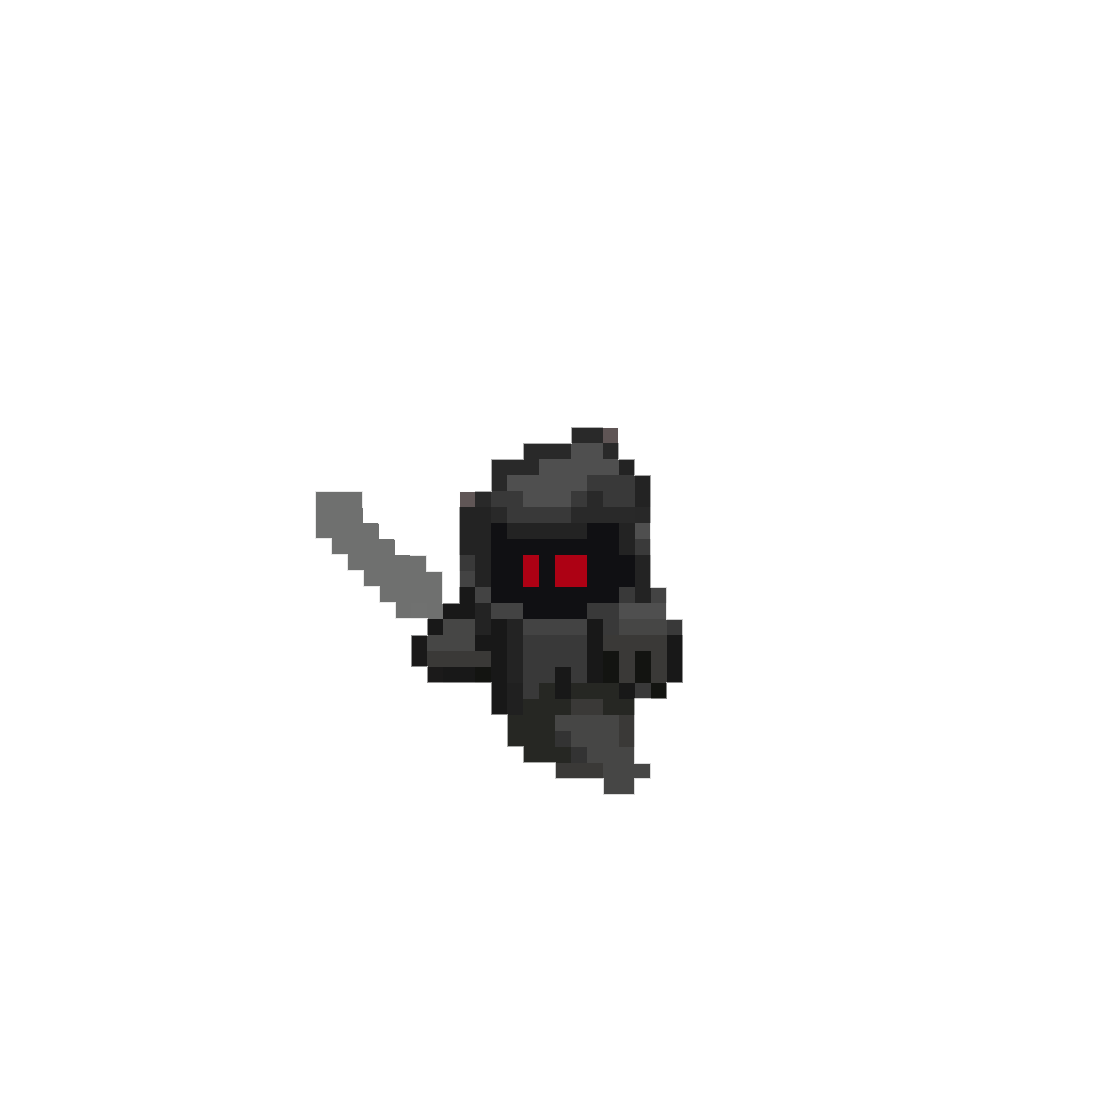
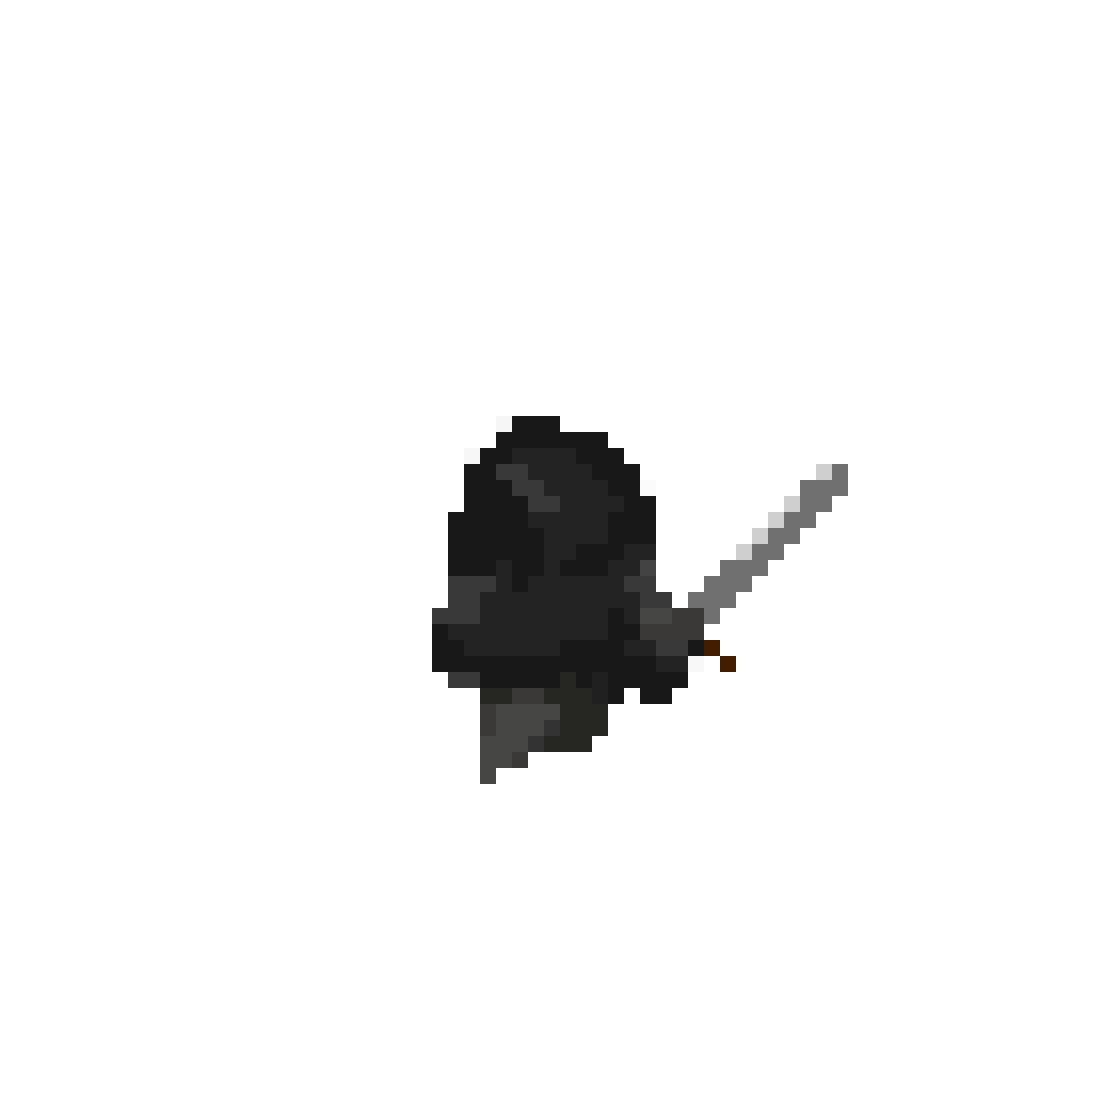
win screens, update screens, update fighter front/back, boost hunter damage, shortcuts for connecting screen

Changed region(s): [[0.2749, 0.3666, 0.7637, 0.7332]]

diff --git a/client/Window.cpp b/client/Window.cpp
@@ -141,7 +141,7 @@ bool Window::initializeObjects(GLFWwindow* window)
 	#ifndef SERVER_ENABLED
 	chars[0] = new Character("shaders/character/billboard.obj", &projection, &view, &eyePos, texShader,
 		glm::vec3(SPAWN_POSITIONS[0][0], 1.5f, SPAWN_POSITIONS[0][1]), glm::vec3(0.f, 1.f, 0.f), glm::radians(0.f), 5.f, glm::vec3(1.f, .5f, .5f),
-		"shaders/character/MAGE");	
+		"shaders/character/MONSTER");	
 	clientChar = chars[0];
 	Window::gameStarted = true;
 	guiManager->healthBar->flashHealthBar();
@@ -198,7 +198,6 @@ void Window::initMap(GLFWwindow * window) {
 		"shaders/environment/dry_grass_red_3x3.png", "shaders/environment/cracked_tile_texture_3x3.png", 3.0f);
 
 	// Init tile ground
-	
     ifstream map_ground_file("../assets/layout/map_ground.csv");
     string t_line;
     string t_id;
@@ -228,7 +227,7 @@ void Window::initMap(GLFWwindow * window) {
 					const int randomTileIndex = rand() % num_tiles;
 					const int randomRotation = rand() % 360;
 					EnvElement* tileTest = new EnvElement(tileStringPaths[randomTileIndex], &projection, &view, phongSaturatedTexShader, &eyePos,
-						glm::vec3(j * tileSize, -0.5f, i * tileSize), glm::vec3(0.f, 1.f, 0.f), glm::radians((float)randomRotation), 1.f , &materialManager,  glm::vec3(0.f, 0.f, 0.f)); 
+						glm::vec3(j * tileSize, 0.f, i * tileSize), glm::vec3(0.f, 1.f, 0.f), glm::radians((float)randomRotation), 1.f , &materialManager,  glm::vec3(0.f, 0.f, 0.f)); 
 					table.insert(tileTest);
 					
 					break;
@@ -421,6 +420,10 @@ void Window::initMap(GLFWwindow * window) {
 		}
 		
 	} 
+
+	// backdrop image
+	envs.push_back(new EnvElement("shaders/character/backdrop_billboard.obj", &projection, &view, texShader,
+					&eyePos, glm::vec3(-150.f, -305.f, -600.f), glm::vec3(1.f, 0.f, 0.f), glm::radians(-70.f), 600.f, glm::vec3(0.f, 1.f, 0.f), "shaders/fullscreen_elements/BLANK.png"));
 }
 
 void Window::initCharacters(GLFWwindow * window) {
@@ -520,8 +523,8 @@ GLFWwindow* Window::createWindow(int width, int height, AudioProgram* audioProgr
 	}
 	
 	// Old windowed mode
-	// glfwWindowHint(GLFW_SAMPLES, 4);
-	// GLFWwindow* window = glfwCreateWindow(width, height, windowTitle, NULL, NULL);
+	//glfwWindowHint(GLFW_SAMPLES, 4);
+	//GLFWwindow* window = glfwCreateWindow(width, height, windowTitle, NULL, NULL);
 	
 	// Fullscreen mode
 	GLFWmonitor* primaryMonitor = glfwGetPrimaryMonitor();
@@ -1296,6 +1299,11 @@ void Window::handleUpdate(GameUpdate update) {
 			guiManager->setConnectingScreenVisible(false);
 			guiManager->setSelectScreenVisible(false);
 			guiManager->setGameEndVisible(true);
+			if(update.endStatus == 1) {
+				guiManager->endScreen->setWinner(HUNTER_WINNER_COND);
+			} else if (update.endStatus == 2) {
+				guiManager->endScreen->setWinner(MONSTER_WINNER_COND);
+			} 
 			break;
         default:
             printf("Not Handled Update Type: %d\n", update.updateType);

diff --git a/client/gui/EndScreen.cpp b/client/gui/EndScreen.cpp
@@ -4,9 +4,12 @@ EndScreen::EndScreen(NVGcontext* vg) {
     this->vg = vg;
     this->isVisible = false;
     this->endTime = steady_clock::now();
+    this->winner = -1;
 
-    this->image = nvgCreateImage(vg, "shaders/fullscreen_elements/game_over.png", 0);
-    nvgImageSize(vg, image, &imgWidth, &imgHeight);
+    this->image[hunter_index] = nvgCreateImage(vg, "shaders/fullscreen_elements/win_hunters.png", 0);
+    nvgImageSize(vg, image[hunter_index], &imgWidth[hunter_index], &imgHeight[hunter_index]);
+    this->image[monster_index] = nvgCreateImage(vg, "shaders/fullscreen_elements/win_monsters.png", 0);
+    nvgImageSize(vg, image[monster_index], &imgWidth[monster_index], &imgHeight[monster_index]);
 }
 
 
@@ -19,19 +22,26 @@ void EndScreen::draw(float windowWidth, float windowHeight) {
 
 	nvgSave(vg); 
 
-	// EndScreen Image
-    // NVGpaint imgPaint =  nvgImagePattern(vg, (windowWidth - imgWidth) / 2, (windowHeight - imgHeight) / 2, imgWidth, imgHeight, 0.0f/180.0f*NVG_PI, this->image, 1.f);
-    // nvgBeginPath(vg);
-    // nvgRoundedRect(vg, (windowWidth - imgWidth) / 2, (windowHeight - imgHeight) / 2, imgWidth, imgWidth, 5);
-    // nvgFillPaint(vg, imgPaint);
-    // nvgFill(vg);
+    // End Screen
     auto duration = duration_cast<milliseconds>(steady_clock::now() - endTime);
     float alpha = std::fmin( ((float)duration.count()) / END_GAME_DELAY_INPUT, 1.0f);
-    NVGpaint imgPaint =  nvgImagePattern(vg, 0, 0, windowWidth, windowHeight, 0.0f/180.0f*NVG_PI, this->image, alpha);
-    nvgBeginPath(vg);
-    nvgRoundedRect(vg,  0, 0, windowWidth, windowHeight, 5);
-    nvgFillPaint(vg, imgPaint);
-    nvgFill(vg);
+
+    // Hunter win condition
+    if (winner == HUNTER_WINNER_COND) {
+        NVGpaint imgPaint =  nvgImagePattern(vg, 0, 0, windowWidth, windowHeight, 0.0f/180.0f*NVG_PI, this->image[hunter_index], alpha);
+        nvgBeginPath(vg);
+        nvgRoundedRect(vg,  0, 0, windowWidth, windowHeight, 5);
+        nvgFillPaint(vg, imgPaint);
+        nvgFill(vg);
+
+    // Monster win condition
+    } else if (winner == MONSTER_WINNER_COND) {
+        NVGpaint imgPaint =  nvgImagePattern(vg, 0, 0, windowWidth, windowHeight, 0.0f/180.0f*NVG_PI, this->image[monster_index], alpha);
+        nvgBeginPath(vg);
+        nvgRoundedRect(vg,  0, 0, windowWidth, windowHeight, 5);
+        nvgFillPaint(vg, imgPaint);
+        nvgFill(vg);
+    }
 
 	nvgRestore(vg); 
 }
@@ -42,4 +52,8 @@ void EndScreen::setVisible(bool visible) {
 
 void EndScreen::setEndTime(steady_clock::time_point endTime) {
     this->endTime = endTime;
+}
+
+void EndScreen::setWinner(int winner) {
+    this->winner = winner;
 }

diff --git a/client/TitleWindow.cpp b/client/TitleWindow.cpp
@@ -54,21 +54,21 @@ GLFWwindow* TitleWindow::createWindow(int width, int height, AudioProgram* audio
 	}
 	
 	// Old windowed mode
-	glfwWindowHint(GLFW_SAMPLES, 4);
-	GLFWwindow* window = glfwCreateWindow(width, height, windowTitle, NULL, NULL);
+	// glfwWindowHint(GLFW_SAMPLES, 4);
+	// GLFWwindow* window = glfwCreateWindow(width, height, windowTitle, NULL, NULL);
 	
 	// Fullscreen mode
-	// GLFWmonitor* primaryMonitor = glfwGetPrimaryMonitor();
-	// const GLFWvidmode* mode = glfwGetVideoMode(primaryMonitor);
+	GLFWmonitor* primaryMonitor = glfwGetPrimaryMonitor();
+	const GLFWvidmode* mode = glfwGetVideoMode(primaryMonitor);
  
-	// glfwWindowHint(GLFW_RED_BITS, mode->redBits);
-	// glfwWindowHint(GLFW_GREEN_BITS, mode->greenBits);
-	// glfwWindowHint(GLFW_BLUE_BITS, mode->blueBits);
-	// glfwWindowHint(GLFW_REFRESH_RATE, mode->refreshRate);
+	glfwWindowHint(GLFW_RED_BITS, mode->redBits);
+	glfwWindowHint(GLFW_GREEN_BITS, mode->greenBits);
+	glfwWindowHint(GLFW_BLUE_BITS, mode->blueBits);
+	glfwWindowHint(GLFW_REFRESH_RATE, mode->refreshRate);
 	
-	// GLFWwindow* window = glfwCreateWindow(mode->width, mode->height, windowTitle, primaryMonitor, NULL);
-	// width = mode->width;
-	// height = mode->height;
+	GLFWwindow* window = glfwCreateWindow(mode->width, mode->height, windowTitle, primaryMonitor, NULL);
+	width = mode->width;
+	height = mode->height;
 
 	// Disables the cursor
 	// glfwSetInputMode(window, GLFW_CURSOR, GLFW_CURSOR_DISABLED);

diff --git a/client/gui/ConnectingScreen.cpp b/client/gui/ConnectingScreen.cpp
@@ -136,7 +136,24 @@ void ConnectingScreen::handleKeyInput(int glfwKey, GLFWwindow * window) {
 
         // Display connecting...
         if(!hasConnectedToServer) {
-            bool establishedConnection =  Window::connectCommClient(inputtedText);
+            std::string convertedString = inputtedText.c_str();
+            if (strcmp(inputtedText.c_str(), "239") == 0) {
+                convertedString = "137.110.111.239";
+            }
+            else if (strcmp(inputtedText.c_str(), "154") == 0) {
+                convertedString = "137.110.115.154";
+            }
+            else if (strcmp(inputtedText.c_str(), "157") == 0) {
+                convertedString = "137.110.115.157";
+            }
+            else if (strcmp(inputtedText.c_str(), "89") == 0) {
+                convertedString = "137.110.115.89";
+            }
+            else if (strcmp(inputtedText.c_str(), "1") == 0) {
+                convertedString = "127.0.0.1";
+            }
+
+            bool establishedConnection =  Window::connectCommClient(convertedString);
             if(establishedConnection) {
                 hasConnectedToServer = true;
             } 

diff --git a/client/gui/EndScreen.h b/client/gui/EndScreen.h
@@ -8,21 +8,32 @@
 
 // Delay end game button press
 #define END_GAME_DELAY_INPUT 2000 // 2 seconds
+#define NUM_END_SCREENS 2
+
+
+#define HUNTER_WINNER_COND 0
+#define MONSTER_WINNER_COND 1
+#define NO_WINNER -1
 
 using namespace std::chrono;
 
 class EndScreen {
 
 public:
+    const int hunter_index = 0;
+    const int monster_index = 1;
+
     NVGcontext* vg;
     bool isVisible;
-    int image, imgWidth, imgHeight;
+    int image[NUM_END_SCREENS], imgWidth[NUM_END_SCREENS], imgHeight[NUM_END_SCREENS];
     steady_clock::time_point endTime;
+    int winner;
     
     EndScreen(NVGcontext* vg);
     void draw(float windowWidth, float windowHeight);
     void setVisible(bool visible);
     void setEndTime(steady_clock::time_point);
+    void setWinner(int);
 
 };
 

diff --git a/common/game/Game.cpp b/common/game/Game.cpp
@@ -933,6 +933,10 @@ void Game::attackPlayersOutsideSafeRegion () {
             float damage = 0;
             if (players[i]->getType() == MONSTER) damage = SAFE_REGION_MONSTER_DAMAGE;
             else damage = SAFE_REGION_HUNTER_DAMAGE;
+
+            // If players are dead don't keep damaging them.
+            if (players[i]->getHp() == 0) continue;
+
             players[i]->hpDecrement(damage, true);
             // queue this update to be send to other players
             GameUpdate gameUpdate;

diff --git a/client/gui/HealthBar.cpp b/client/gui/HealthBar.cpp
@@ -156,7 +156,7 @@ void HealthBar::draw(float x, float y, float w, float h) {
 	nvgFontBlur(vg, 0);
 	nvgFillColor(vg, nvgRGBA(200, 200, 200, 255));
 	std::string hpText = "HP : " + std::to_string(hp) + "/" + std::to_string(maxHp);
-	nvgText(vg, barX + 5, barY + barHeight * 2 / 3, hpText.c_str(), NULL);
+	nvgText(vg, barX + 5, barY + barHeight, hpText.c_str(), NULL);
     
 
 	nvgRestore(vg);

diff --git a/common/game/GameConstants.h b/common/game/GameConstants.h
@@ -54,10 +54,10 @@
 #define MONSTER_MAX_HP 1000
 
 // Attack Harm Constants
-#define FIGHTER_ATTACK_DAMAGE 5
-#define MAGE_ATTACK_DAMAGE 2
-#define CLERIC_ATTACK_DAMAGE 2
-#define ROGUE_ATTACK_DAMAGE 2
+#define FIGHTER_ATTACK_DAMAGE 8
+#define MAGE_ATTACK_DAMAGE 5
+#define CLERIC_ATTACK_DAMAGE 5
+#define ROGUE_ATTACK_DAMAGE 5
 #define MONSTER_ATTACK_DAMAGE 5
 
 // Attack Rate Constants

diff --git a/client/gui/TitleScreen.h b/client/gui/TitleScreen.h
@@ -11,8 +11,8 @@ const int PRESS_ANY_KEY_SCREEN = 0,
             HOW_TO_PLAY_SCREEN = 1,
             STORY_SCREEN = 2,
             MENU_SCREEN_ENTER = 3,
-            MENU_SCREEN_EXIT = 4,
-            MENU_SCREEN_HELP = 5,
+            MENU_SCREEN_HELP = 4,
+            MENU_SCREEN_EXIT = 5,
             MENU_SCREEN_STORY = 6;
 class TitleScreen {
 

diff --git a/client/Window.h b/client/Window.h
@@ -5,9 +5,9 @@
 #define MOUSE_SIZE 2
 #define MOUSE_LEFT_INDEX 0
 #define MOUSE_RIGHT_INDEX 1
-#define SERVER_ENABLED
+//#define SERVER_ENABLED
 #define RENDER_MAP
-#define RENDER_CHARACTERS
+//#define RENDER_CHARACTERS
 #define _USE_MATH_DEFINES
 #define SPATIAL_HASH_SEARCH_DISTANCE 30.0
 
